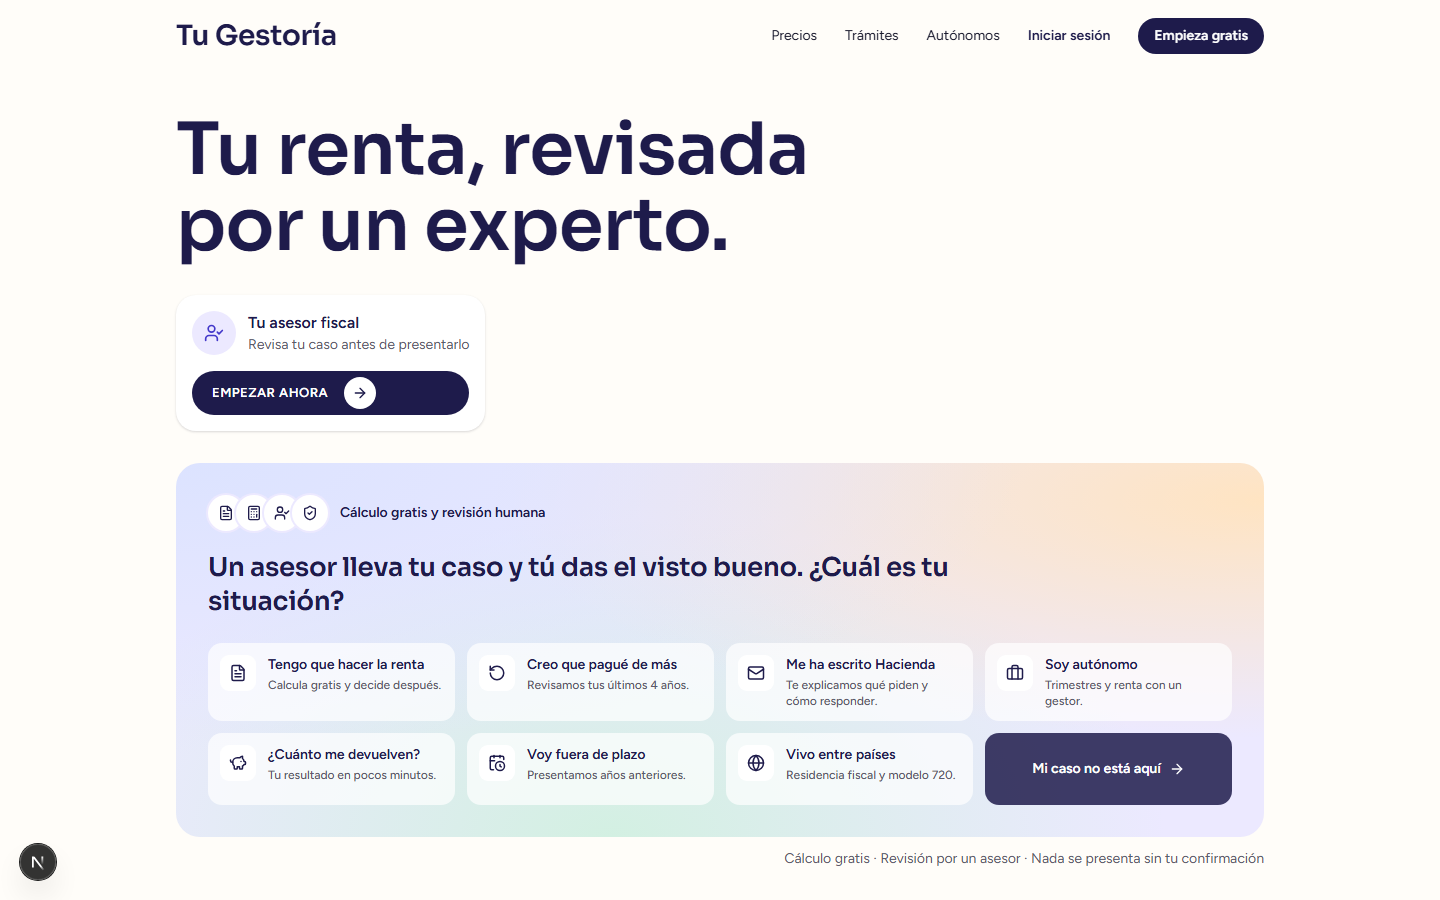
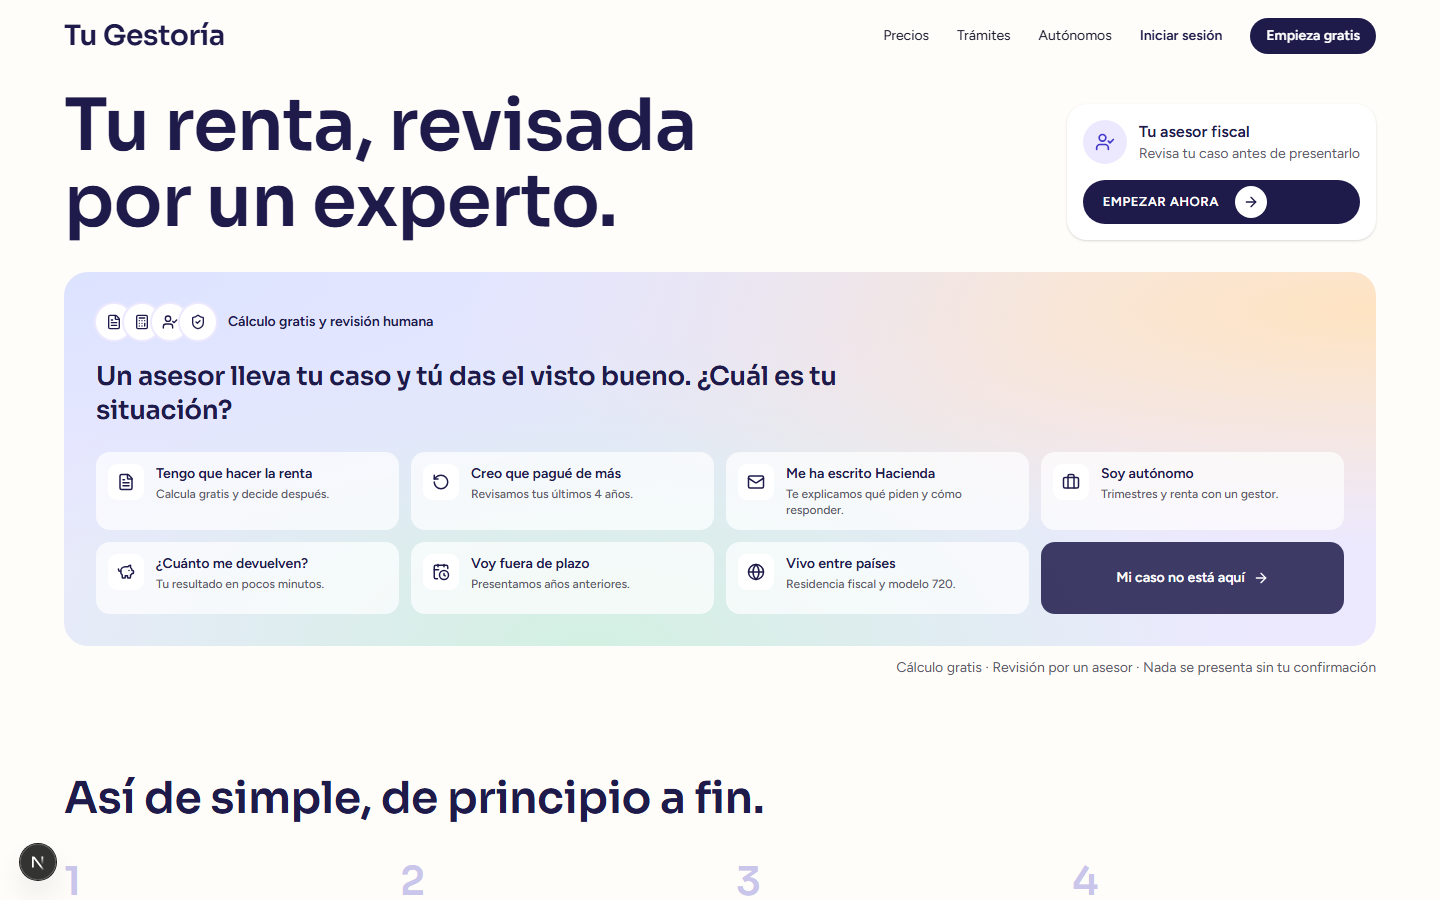
Portada a 1440 px: contenido de 1.344 px y tarjeta del asesor a la derecha del titular

diff --git a/web/src/app/(marketing)/page.tsx b/web/src/app/(marketing)/page.tsx
@@ -53,12 +53,12 @@ const lift = "transition-[transform,background-color,box-shadow] duration-200 ea
 export default function Home() {
   return (
     <>
-      <section className="mx-auto max-w-content px-4 pt-8 md:pt-12">
+      <section className="mx-auto flex max-w-wide flex-col gap-8 px-4 pt-8 md:pt-12 xl:flex-row xl:items-start xl:justify-between xl:pt-6">
         <h1 className={`${headline} text-[34px] leading-[1.08] sm:text-[56px] sm:leading-[1.05] lg:text-[72px]`}>
           Tu renta, revisada<br />por un experto.
         </h1>
 
-        <div className="mt-8 inline-flex flex-col gap-4 rounded-[20px] bg-surface-raised p-4 shadow-card">
+        <div className="inline-flex flex-col gap-4 self-start rounded-[20px] bg-surface-raised p-4 shadow-card xl:mt-4">
           <div className="flex items-center gap-3">
             <span aria-hidden className="grid size-11 place-items-center rounded-full bg-accent-soft text-accent"><UserCheck className="size-5" /></span>
             <div>
@@ -70,7 +70,7 @@ export default function Home() {
         </div>
       </section>
 
-      <section aria-labelledby="situacion" className="mx-auto mt-8 max-w-content px-4">
+      <section aria-labelledby="situacion" className="mx-auto mt-8 max-w-wide px-4">
         <div className="rounded-[24px] p-5 sm:p-8" style={fieldStyle}>
           <div className="flex items-center gap-3">
             <div className="flex -space-x-2" aria-hidden>
@@ -108,7 +108,7 @@ export default function Home() {
         <p className="mt-3 text-sm text-text-muted sm:text-right">Cálculo gratis · Revisión por un asesor · Nada se presenta sin tu confirmación</p>
       </section>
 
-      <section aria-labelledby="como" className="mx-auto mt-24 max-w-content px-4">
+      <section aria-labelledby="como" className="mx-auto mt-24 max-w-wide px-4">
         <h2 id="como" className={`${headline} text-[34px] leading-[1.1] sm:text-[44px]`}>Así de simple, de principio a fin.</h2>
         <ol className="mt-10 grid gap-8 sm:grid-cols-2 lg:grid-cols-4">
           {steps.map((s, i) => (
@@ -121,7 +121,7 @@ export default function Home() {
         </ol>
       </section>
 
-      <section aria-label="Nuestras promesas" className="mx-auto mt-24 max-w-content px-4">
+      <section aria-label="Nuestras promesas" className="mx-auto mt-24 max-w-wide px-4">
         <ul className="grid gap-6 md:grid-cols-3">
           {promises.map(({ Icon, title, text }) => (
             <li key={title} className="flex gap-4 rounded-[20px] bg-surface p-6">
@@ -137,7 +137,7 @@ export default function Home() {
         <Accordion items={faq} />
       </section>
 
-      <section className="mx-auto mt-24 max-w-content px-4">
+      <section className="mx-auto mt-24 max-w-wide px-4">
         <div className="flex flex-col items-start justify-between gap-6 rounded-[24px] bg-ink p-8 text-on-ink md:flex-row md:items-center md:p-12">
           <div>
             <h2 className="font-display text-[34px] font-semibold leading-[1.1] tracking-[-0.06em] sm:text-[44px]">Empieza por tu resultado.</h2>

diff --git a/web/src/components/site/header.tsx b/web/src/components/site/header.tsx
@@ -28,7 +28,7 @@ export function SiteHeader() {
     <header className="sticky top-0 z-40 px-2 pt-2 sm:px-4">
       <div
         className={`mx-auto flex h-14 items-center justify-between gap-4 px-4 transition-all duration-300 ease-brand motion-reduce:transition-none ${
-          scrolled ? "max-w-[calc(var(--container-content)+16px)] rounded-pill bg-surface-raised/85 shadow-pop backdrop-blur-md" : "max-w-content bg-transparent"
+          scrolled ? "max-w-[calc(var(--container-wide)+16px)] rounded-pill bg-surface-raised/85 shadow-pop backdrop-blur-md" : "max-w-wide bg-transparent"
         }`}
       >
         <Link href="/" className="font-display text-xl font-semibold tracking-[-0.04em] text-ink">Tu Gestoría</Link>
@@ -47,7 +47,7 @@ export function SiteHeader() {
         </button>
       </div>
       {open && (
-        <nav id="menu-movil" aria-label="Principal móvil" className="mx-auto mt-2 flex max-w-content flex-col gap-1 rounded-lg bg-surface-raised p-3 shadow-pop md:hidden">
+        <nav id="menu-movil" aria-label="Principal móvil" className="mx-auto mt-2 flex max-w-wide flex-col gap-1 rounded-lg bg-surface-raised p-3 shadow-pop md:hidden">
           {links.map((l) => <Link key={l.href} href={l.href} onClick={() => setOpen(false)} className="rounded-md px-2 py-3 font-medium">{l.label}</Link>)}
           <Link href={user ? "/app/caso" : "/acceder?next=/app/conectar"} className={`${navCta} mt-2 h-11 justify-center`}>{user ? "Mi panel" : "Empieza gratis"}</Link>
         </nav>

diff --git a/web/src/app/globals.css b/web/src/app/globals.css
@@ -70,6 +70,7 @@
   --breakpoint-xl: 1280px;
   --container-content: 1120px;
   --container-reading: 680px;
+  --container-wide: 1344px;
   --ease-brand: cubic-bezier(.2,.8,.2,1);
 }
 

diff --git a/replica/parity.md b/replica/parity.md
@@ -6,9 +6,9 @@ Fecha: 2026-10-26 · Build: 5027ea6 + matriz actualizada · Herramientas: `repli
 
 | | puntuación |
 | --- | --- |
-| **Total** (80 % funciones + 20 % estructura) | **47,3 / 100** |
+| **Total** (80 % funciones + 20 % estructura) | **47,4 / 100** |
 | Funciones | 53,4 (34 contadas; **6 de 13 imprescindibles** hechas) |
-| Estructura de pantallas | 22,8 (8 comparaciones) |
+| Estructura de pantallas | 23,3 (8 comparaciones) |
 
 **Veredicto: no se puede lanzar.** Quedan 7 imprescindibles a medias y un bug S2 abierto (BUG-004). No hay ningún S1.
 
@@ -56,7 +56,7 @@ Mismo tamaño de ventana (1440×900 y 390×844), parte visible al cargar. Solo p
 
 | pantalla | escritorio | móvil | qué cambia |
 | --- | --- | --- | --- |
-| S01 Inicio | 31,2 | 30,5 | mismos bloques en el mismo orden, pero a 1440 px TaxDown usa casi todo el ancho (márgenes de ~48 px frente a un contenedor de 1.120 px) y pone la tarjeta del asesor **arriba a la derecha**, junto al titular |
+| S01 Inicio | 35,3 (antes 31,2) | 30,5 | ya coincide la posición a 1440 px: contenido de 1.344 px y tarjeta del asesor arriba a la derecha del titular. Lo que queda: su panel de situaciones es más alto (las tarjetas van al pie de un campo de color grande), sus fotos de asesores y la diferencia de textos |
 | S03 Precios | 22,2 | 24,4 | composición propia: tarjetas y tabla frente a su cabecera con planes |
 | S04 Trámites | 17,8 | 8,4 | ellos: cabecera grande con ilustración y tarjetas numeradas; nosotros: listas por categoría |
 | S05 Autónomos | 24,5 | 23,0 | composición propia |
@@ -90,6 +90,6 @@ La app de TaxDown no se ha usado (no hay cuenta), así que esta parte compara lo
 4. **Panel de asesor completo**: pedir cambios al cliente, subir la declaración en PDF y ver los documentos del caso. Cierra 1 imprescindible.
 5. **Correo por Resend en Supabase** (BUG-004, S2): es lo único que bloquea el veredicto aparte de los imprescindibles.
 
-Extra si quieres subir la nota de estructura del inicio: a 1440 px, contenedor más ancho y tarjeta del asesor a la derecha del titular. Es un cambio pequeño que aproxima la posición que pediste.
+Hecho: a 1440 px el inicio usa contenido de 1.344 px y la tarjeta del asesor va a la derecha del titular (a 1024 px y en móvil sigue debajo, igual que en TaxDown).
 
 Siguiente paso del pack: `/replica-build` para cerrar estos huecos. `/replica-entrepreneur` tiene más sentido cuando la paridad esté cerca de 80.
